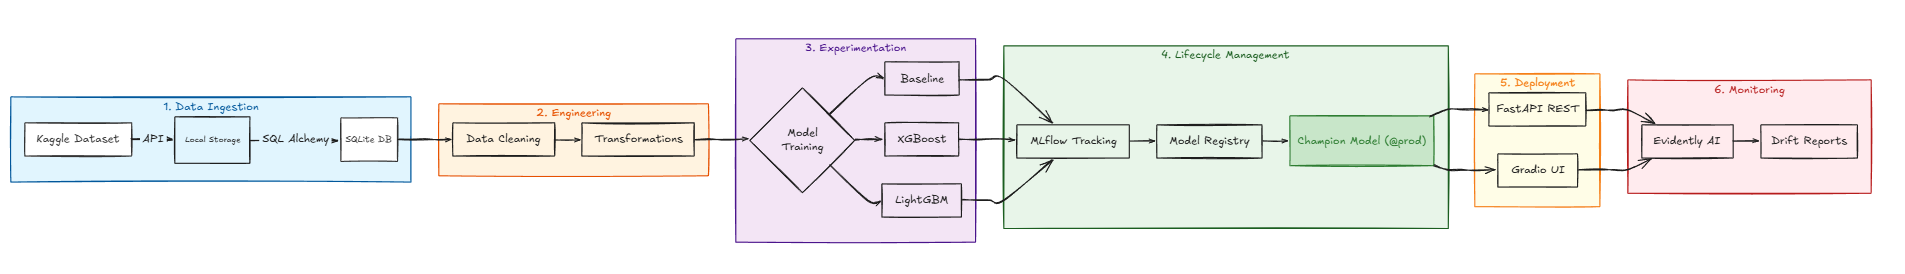
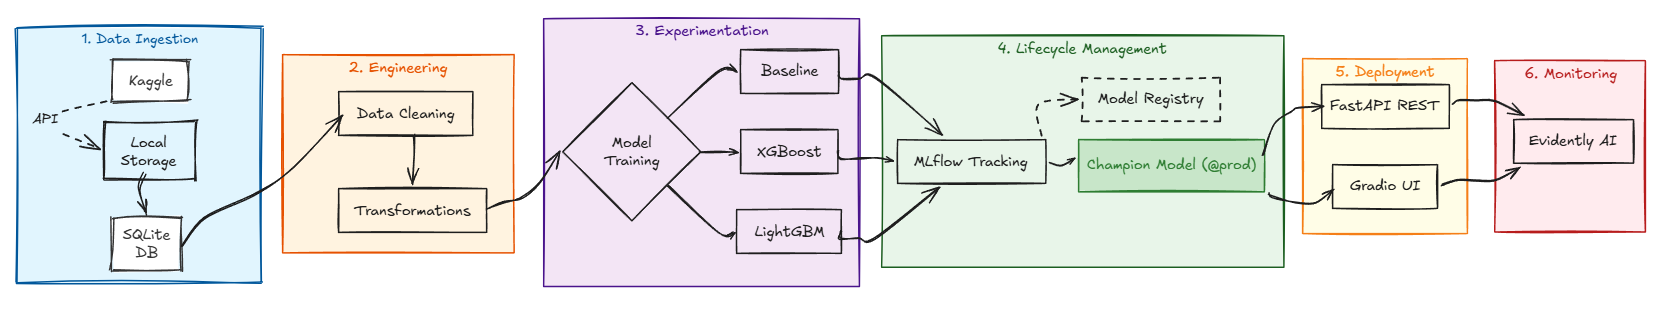
refine README and image

diff --git a/README.md b/README.md
@@ -37,6 +37,7 @@ An enterprise-grade, end-to-end MLOps lifecycle implementation predicting weekly
   - [Dockerization](#-dockerization)
   - [CI/CD](#-cicd)
 - [🚀 Future Roadmap](#-future-roadmap--improvements)
+- [👨💻 Author](#-author)
 - [📄 License](#-license)
 
 ## 🎯 Project Objectives
@@ -483,6 +484,13 @@ Future iterations will explore:
 * Batch inference pipeline orchestrators (e.g., Prefect / Airflow)
 * Cloud deployment (AWS / GCP / Azure)
 * Kubernetes deployment (KServe / Helm charts)
+
+---
+
+## 👨💻 Author
+
+[![LinkedIn – Paula Martín Palomeque](https://img.shields.io/badge/LinkedIn-Paula%20Mart%C3%ADn%20Palomeque-0077B5?style=for-the-badge&logo=linkedin&logoColor=white)](https://www.linkedin.com/in/paula-mart%C3%ADn-palomeque/)
+
 
 ---
 
